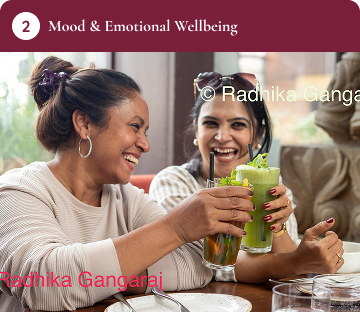
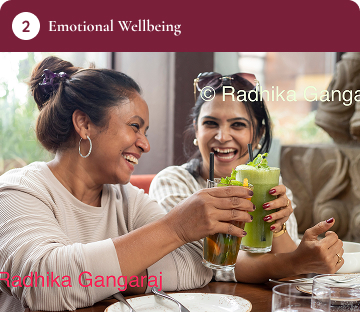
gfjyf

Changed region(s): [[0.1222, 0.0577, 0.6722, 0.1154]]

diff --git a/components/StepsSection.jsx b/components/StepsSection.jsx
@@ -76,15 +76,17 @@ export default function StepsSection() {
 
       {/* Content Container */}
       {/* YAHAN FIX KIYA HAI: max-w-[1560px] kiya taaki Home.js ke alignment se properly sync ho */}
-      <div className="relative z-10 w-full max-w-[1560px] mx-auto flex flex-col items-center gap-[24px]">
+      <div className="relative z-10 w-full max-w-[1560px] mx-auto flex flex-col items-center md:items-start gap-[24px]">
         
         {/* Header Frame */}
-        <div className="flex flex-col items-center gap-[12px] w-full px-4 md:px-0">
-          <p className="force-cormorant font-medium text-[12px] font-bold tracking-[0.16em] text-[#FFFFFF] uppercase text-center w-full leading-[20px]">
+        {/* YAHAN FIX KIYA HAI: md:items-center aur md:text-center lagaya desktop view ke liye */}
+        <div className="flex flex-col items-start md:items-center gap-[12px] w-full px-4 md:px-0">
+          <p className="force-cormorant font-medium text-[12px] font-bold tracking-[0.16em] text-[#FFFFFF] uppercase text-left md:text-center w-full leading-[20px]">
             — HOW WE HELP —
           </p>
-          <h2 className="force-cormorant font-medium text-[36px] md:text-[52px] font-bold text-[#FFFFFF] text-center md:leading-[69px] w-full max-w-4xl">
-            We provide you the integrated care you deserve in your midlife. <span className="text-[#FFFFFF] italic">As easy as 1, 2, 3....Go</span>
+          <h2 className="force-cormorant font-medium text-[36px] md:text-[52px] font-bold text-[#FFFFFF] text-left md:text-center md:leading-[69px] w-full max-w-4xl">
+            We provide you the integrated care you deserve in your midlife.<br />
+            <span className="text-[#FFFFFF] italic">As easy as 1, 2, 3....Go</span>
           </h2>
         </div>
 

diff --git a/components/IntegratedCareSection.jsx b/components/IntegratedCareSection.jsx
@@ -40,7 +40,7 @@ export default function IntegratedCareSection() {
       id: 2,
       image: "/video-thumb-2.jpg",
       imgClass: "object-left object-cover scale-[1.02]",
-      title: "Mood & Emotional Wellbeing",
+      title: "Emotional Wellbeing",
       desc: "Mood changes, irritability, overwhelm, anxiety, or a quiet sense of not feeling like yourself can all be part of the menopausal transition. We help you understand these changes and support your emotional wellbeing with evidence-based approaches."
     },
     {
@@ -61,7 +61,7 @@ export default function IntegratedCareSection() {
       id: 5,
       image: "/video-thumb-5.jpg",
       imgClass: "object-left object-cover scale-[1.02]",
-      title: "Brain Fog & Memory",
+      title: "Physiological changes",
       desc: "Forgetting names, losing your train of thought, difficulty concentrating, or feeling mentally slower than usual can be unsettling. These experiences are common during perimenopause and deserve understanding, not dismissal."
     },
     {
@@ -82,7 +82,7 @@ export default function IntegratedCareSection() {
       id: 8,
       image: "/video-thumb-8.jpg",
       imgClass: "object-left object-cover scale-[1.02]",
-      title: "Healthy Ageing",
+      title: "Skin & Hair",
       desc: "Midlife is an opportunity to invest in your future health. From bone health and cardiovascular wellbeing to cognitive resilience and vitality, we focus on helping women age with strength, confidence, and purpose."
     }
   ];

diff --git a/components/StagesSection.jsx b/components/StagesSection.jsx
@@ -81,7 +81,7 @@ export default function StagesSection() {
             
             {mobileState.perimenopause && (
               <div className="px-3 pb-3" style={{ fontFamily: "'Cormorant Garamond', serif" }}>
-                <p className="text-slate-950 text-[15px] leading-relaxed font-medium border-t border-[#E8D9C5] pt-3">
+                <p className="text-slate-950 text-[18px] leading-relaxed font-medium border-t border-[#E8D9C5] pt-3">
                   Perimenopause can begin years before periods stop, and its symptoms are often subtle, confusing, and overlooked. We help you identify your stage, whats coming up and how to navigate with confidence.
                 </p>
               </div>
@@ -116,7 +116,7 @@ export default function StagesSection() {
             
             {mobileState.menopause && (
               <div className="px-3 pb-3" style={{ fontFamily: "'Cormorant Garamond', serif" }}>
-                <p className="text-slate-950 text-[15px] leading-relaxed font-medium border-t border-[#E8D9C5] pt-3">
+                <p className="text-slate-950 text-[18px] leading-relaxed font-medium border-t border-[#E8D9C5] pt-3">
                   Menopause marks a significant life transition, not simply the end of periods. We help you with symptom management, long-term health considerations, and practical strategies to help you feel well and informed at every stage.
                 </p>
               </div>

diff --git a/components/HeroSection.jsx b/components/HeroSection.jsx
@@ -337,15 +337,17 @@ export default function HeroSection() {
         </div>
         
         {/* BACKGROUND IMAGE CONTAINER */}
+        {/* YAHAN FIX KIYA HAI: inline style mein 'backgroundSize' ko 'cover' aur 'backgroundPosition' ko 'top center' set kiya hai */}
         <div ref={bgRef} className="w-full relative z-20 -mt-[75%] aspect-[5/5] pointer-events-none [transform:translateZ(0)]">
           <div 
             key={`bounce-${bounceKey}`} 
-            className={`absolute inset-0 bg-no-repeat right-[0px] mt-[12%]  left-[0px] bg-center  rounded-t-[40px]  ${isBgVisible ? 'animate-popup-bg' : 'opacity-0'}`}
+            className={`absolute inset-0 bg-no-repeat right-[0px] mt-[12%]  left-[0px] rounded-t-[40px]  ${isBgVisible ? 'animate-popup-bg' : 'opacity-0'}`}
             style={{ 
               backgroundImage: `url('/gradient-bg.png')`, 
-              backgroundSize: '100% 100%',
-              backdropFilter: 'blur(35px)',
-              ImageRendering: 'quality(100%)',
+              backgroundSize: 'cover',
+              backgroundPosition: 'top center',
+              WebkitBackdropFilter: 'blur(35px)',
+              backdropFilter: 'blur(35px)'
             }}
           ></div>
         </div>

diff --git a/app/page.js b/app/page.js
@@ -23,11 +23,11 @@ export default function Home() {
       <ImageDivider />
       
       {/* Text Section (Exact Figma Match for Safari & Desktop) */}
-      {/* YAHAN FIX KIYA HAI: Grid hata kar Flex lagaya, items-start kiya, max-width badhayi aur exact Figma gaps (100px padding, 60px gap) set kiye */}
-      <section className="py-16 md:py-24 px-6 md:px-[100px] max-w-[1560px] mx-auto flex flex-col md:flex-row items-center md:items-start justify-center gap-8 md:gap-[60px] min-w-0">
+      {/* YAHAN FIX KIYA HAI: flex-col ke sath items-start aur left div me w-full lagaya taaki mobile (iPhone Safari) margin barabar rahe */}
+      <section className="py-16 md:py-24 px-6 md:px-[100px] max-w-[1560px] mx-auto flex flex-col md:flex-row items-start justify-center gap-8 md:gap-[60px] min-w-0">
         
         {/* Left Column (Exact 580px for Desktop) */}
-        <div className="min-w-0 md:w-[580px] shrink-0">
+        <div className="w-full min-w-0 md:w-[580px] shrink-0">
           
           <p
             className="text-[#0B306F] uppercase font-bold tracking-[0.05em] sm:tracking-[0.08em] md:tracking-[0.16em] text-[12px] sm:text-[12px] md:text-[16px] mb-4 whitespace-nowrap block"

diff --git a/components/CarePlanSection.jsx b/components/CarePlanSection.jsx
@@ -104,8 +104,9 @@ export default function CarePlanSection() {
         </h2>
 
         {/* Cream Card Container */}
+        {/* YAHAN FIX KIYA HAI: h-[370px] ko hata kar h-auto md:h-[370px] kiya gaya hai Safari padding issue solve karne ke liye */}
         <div 
-          className="bg-[#FCF3E7] backdrop-blur-md border border-white/30 h-[370px] rounded-[32px] max-w-[480px] w-full relative z-30 mt-4 md:mt-0 -mb-[100px] md:mb-0 overflow-hidden shadow-lg"
+          className="bg-[#FCF3E7] backdrop-blur-md border border-white/30 h-auto md:h-[370px] rounded-[32px] max-w-[480px] w-full relative z-30 mt-4 md:mt-0 -mb-[100px] md:mb-0 overflow-hidden shadow-lg"
           onTouchStart={onTouchStart}
           onTouchMove={onTouchMove}
           onTouchEnd={onTouchEnd}
